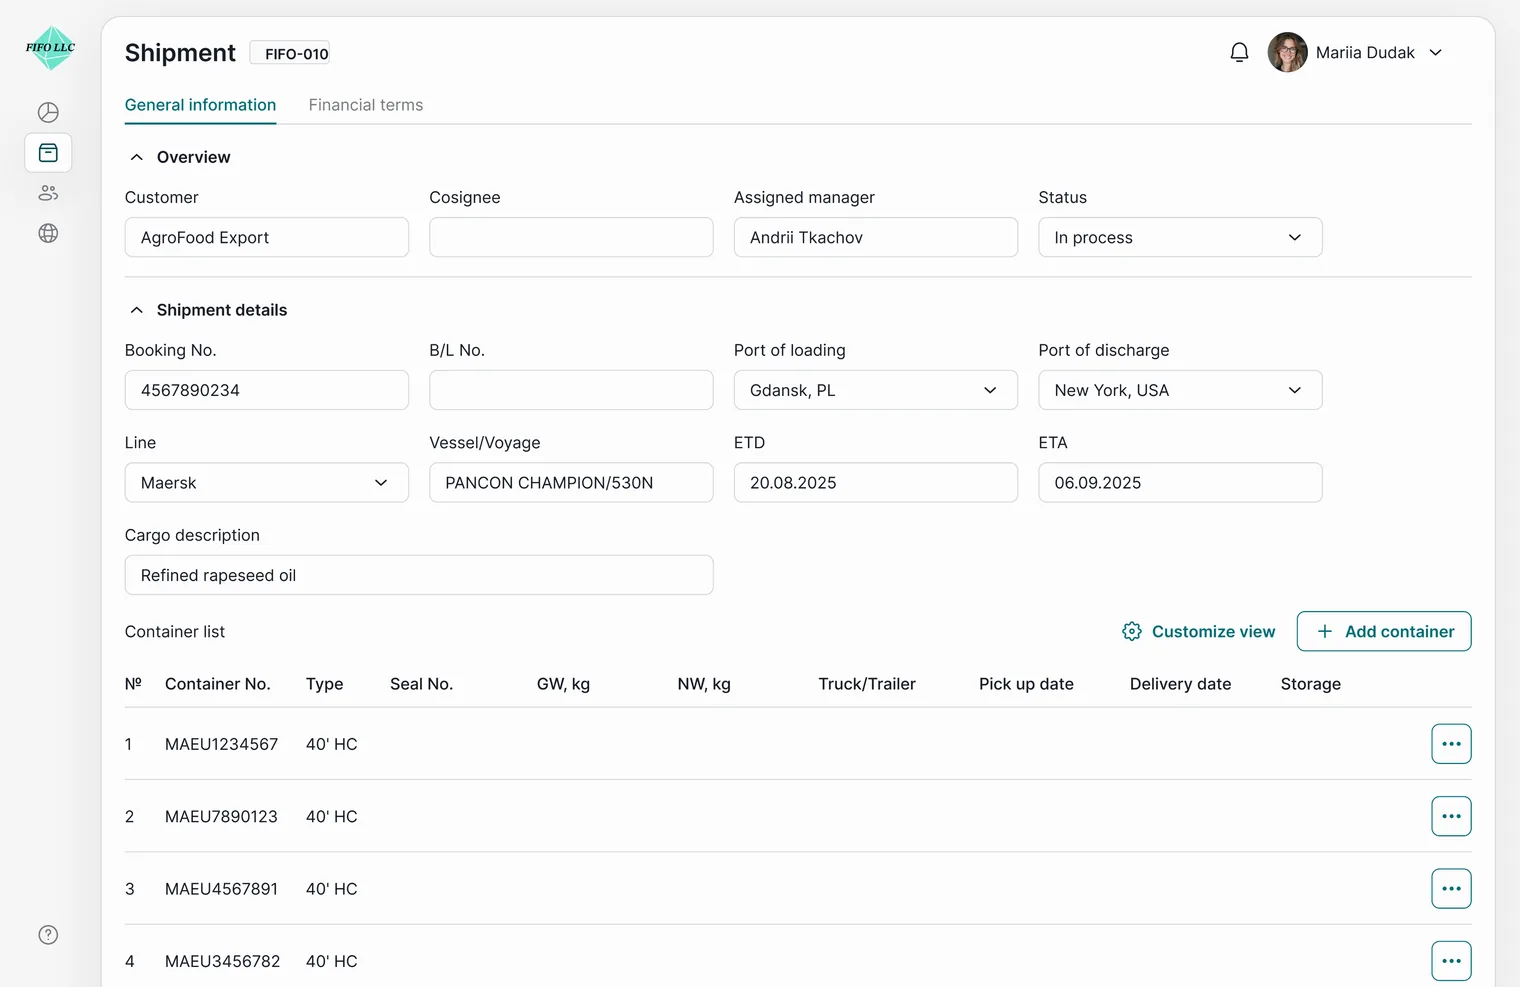
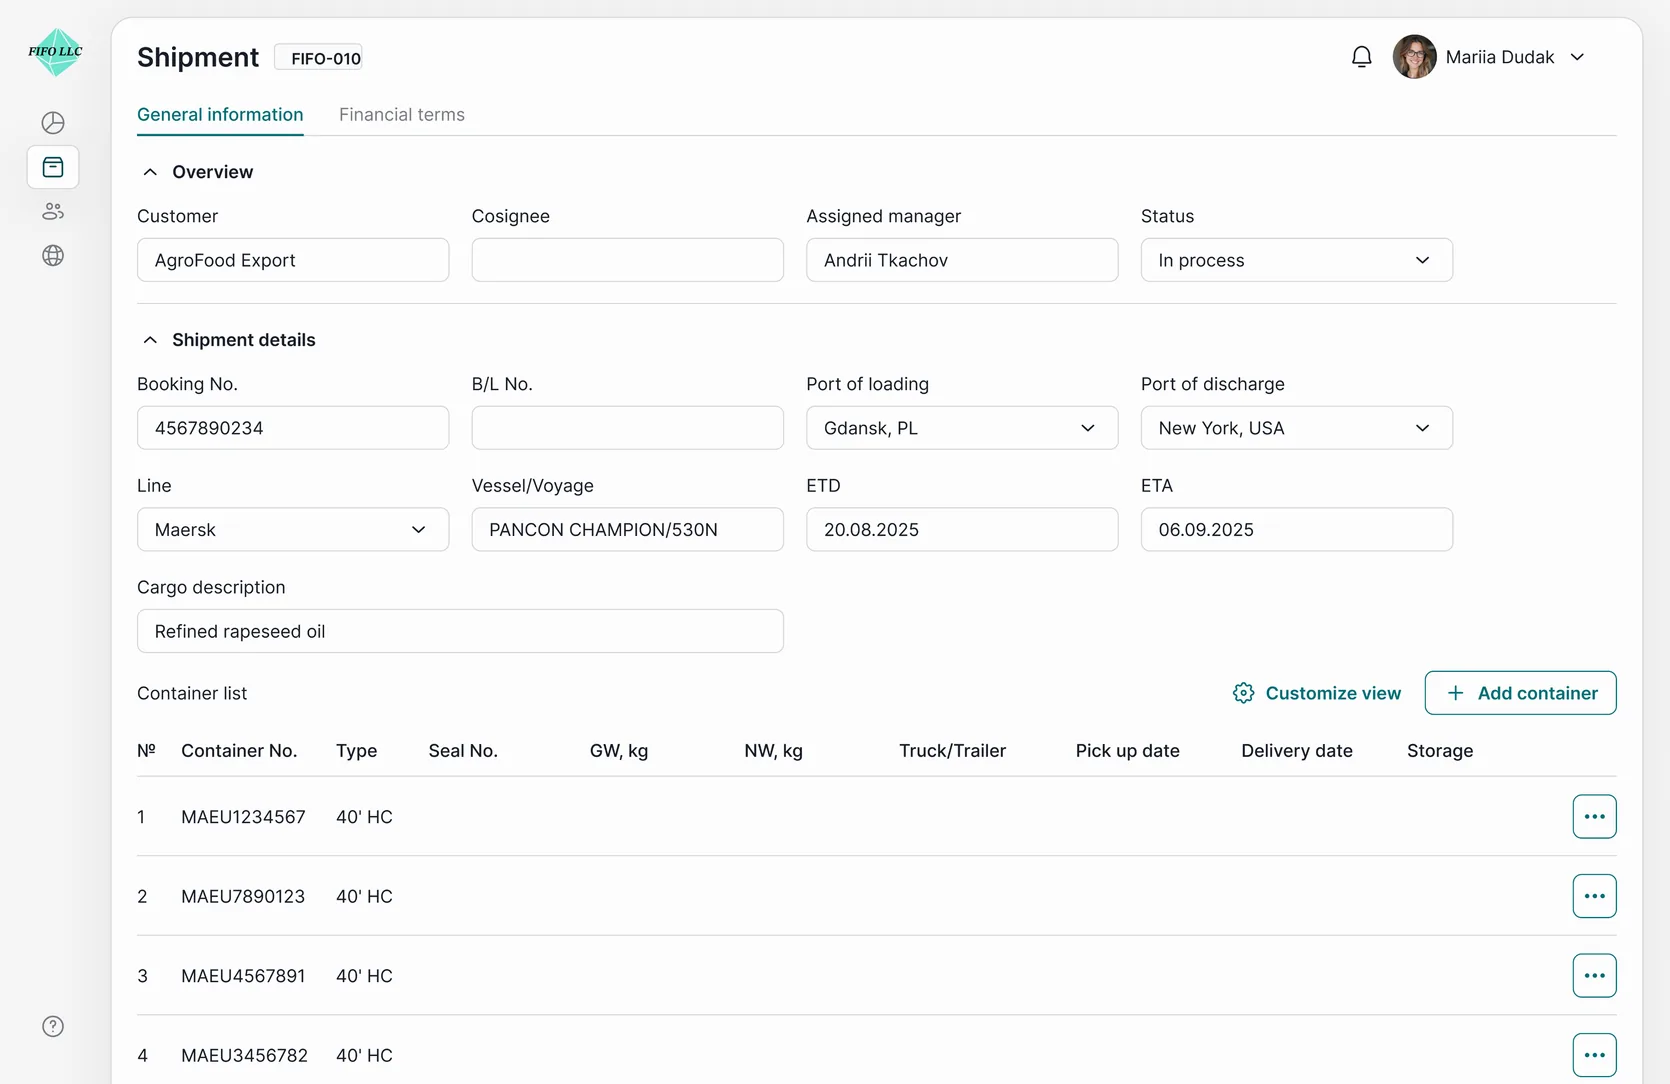
TMS case: sync Stops 01, 02, 04, 05, No dead ends and Carrier card with Figma
Stop 04 stage 960 with images 28 and 34 enlarged and repositioned, notes
+43; Stop 05 stage 960, dashboard frame 1101x715 centred (right edge on
the note); Stop 02 header-to-stage gap 80 (was 64); screenshot radii 24
for images 32, 35, 36, 37; Carrier portal card #fafafa like the others.
Images 28, 34, 35 and the Stop 04 General layer re-exported at their new
Figma sizes. Unused compact gap token and white card tone removed.

diff --git a/src/data/cases/tms.ts b/src/data/cases/tms.ts
@@ -183,12 +183,12 @@ export const tmsCase = {
        * centre in % of the temporary mobile stage; `row` is what the card adds to the window.
        */
       tools: [
-        { id: 'excel', label: 'Excel tracker', cx: 217.2, cy: 146.05, rotation: 8, tone: 'panel' as const, mobile: { cx: 27, cy: 7 }, row: { label: 'Shipments & status', value: 'Booking' } },
-        { id: 'email', label: 'Email threads', cx: 1170.18, cy: 104.41, rotation: -6, tone: 'panel' as const, mobile: { cx: 73, cy: 7 }, row: { label: 'Tasks & comments', value: '3 open' } },
-        { id: 'carrier', label: 'Carrier portal', cx: 188.73, cy: 546.45, rotation: -5, tone: 'white' as const, mobile: { cx: 22, cy: 87 }, row: { label: 'ETA & tracking', value: '26.08' } },
-        { id: 'crm', label: 'CRM', cx: 1171.72, cy: 541.66, rotation: 6, tone: 'panel' as const, mobile: { cx: 82, cy: 87 }, row: { label: 'Client: AgroFood Export' } },
-        { id: 'pdf', label: 'PDF documents', cx: 707.85, cy: 642.23, rotation: 3, tone: 'panel' as const, mobile: { cx: 52, cy: 95 }, row: { label: 'Documents & invoices', value: '4 files' } },
-      ] as { id: string; label: string; cx: number; cy: number; rotation: number; tone: 'panel' | 'white'; mobile: { cx: number; cy: number }; row: { label: string; value?: string } }[],
+        { id: 'excel', label: 'Excel tracker', cx: 217.2, cy: 146.05, rotation: 8, mobile: { cx: 27, cy: 7 }, row: { label: 'Shipments & status', value: 'Booking' } },
+        { id: 'email', label: 'Email threads', cx: 1170.18, cy: 104.41, rotation: -6, mobile: { cx: 73, cy: 7 }, row: { label: 'Tasks & comments', value: '3 open' } },
+        { id: 'carrier', label: 'Carrier portal', cx: 188.73, cy: 546.45, rotation: -5, mobile: { cx: 22, cy: 87 }, row: { label: 'ETA & tracking', value: '26.08' } },
+        { id: 'crm', label: 'CRM', cx: 1171.72, cy: 541.66, rotation: 6, mobile: { cx: 82, cy: 87 }, row: { label: 'Client: AgroFood Export' } },
+        { id: 'pdf', label: 'PDF documents', cx: 707.85, cy: 642.23, rotation: 3, mobile: { cx: 52, cy: 95 }, row: { label: 'Documents & invoices', value: '4 files' } },
+      ] as { id: string; label: string; cx: number; cy: number; rotation: number; mobile: { cx: number; cy: number }; row: { label: string; value?: string } }[],
     },
     /** 113:12867. Sources are linked in Figma. */
     stats: [
@@ -265,7 +265,7 @@ export const tmsCase = {
             src2x: stop01List2x,
             alt: 'Shipments list with a status for each shipment; the new shipment FIFO-010 is in Booking',
             box: { x: 760, y: 330, width: 600, height: 412.698 },
-            radius: 9.524,
+            radius: 24,
             stroke,
           },
         ],
@@ -352,13 +352,13 @@ export const tmsCase = {
       } satisfies SectionCopy,
       scene: { length: 1.6, label: 'The shipment page switches from General information to Financial terms, then an invoice built from the shipment opens over it.' } satisfies SceneData,
       stage: {
-        size: { width: 1432, height: 874 },
+        size: { width: 1432, height: 960 },
         shots: [
           {
             src1x: stop04Shipment1x,
             src2x: stop04Shipment2x,
             alt: 'Shipment page, Financial terms tab: customer, payer, payment status, rate and the expenses table',
-            box: { x: 80, y: 144, width: 760, height: 493.598 },
+            box: { x: 42.609, y: 201.169, width: 834.783, height: 542.167 },
             radius: 24,
             stroke,
           },
@@ -366,18 +366,18 @@ export const tmsCase = {
             src1x: stop04Invoice1x,
             src2x: stop04Invoice2x,
             alt: 'Invoice FIFO-002 generated from the shipment data, open over the shipment page with Save and export buttons',
-            box: { x: 736.004, y: 330, width: 615.886, height: 400 },
+            box: { x: 705.699, y: 405.471, width: 676.488, height: 439.359 },
             radius: 24,
             stroke,
           },
         ],
         notes: [
-          { text: 'Header stays put, tabs change below it', x: 80, y: 50, width: 355 },
-          { text: 'Invoice built from shipment data', x: 1050, y: 780, width: 302 },
+          { text: 'Header stays put, tabs change below it', x: 80, y: 93, width: 355 },
+          { text: 'Invoice built from shipment data', x: 1050, y: 823, width: 302 },
         ],
       } satisfies StageData,
     },
-    /** 120:13588. Figma's stage is 1416 wide; the image sits centred in the 1432 content width. */
+    /** 120:13588: the dashboard frame is centred in the stage; its right edge lines up with the note. */
     overview: {
       copy: {
         id: 'stop-05',
@@ -387,14 +387,14 @@ export const tmsCase = {
       } satisfies SectionCopy,
       scene: { length: 1.2, label: 'The dashboard charts draw in, the period menu switches from 3 months to 1 year, and the charts redraw.' } satisfies SceneData,
       stage: {
-        size: { width: 1432, height: 959 },
+        size: { width: 1432, height: 960 },
         shots: [
           {
             src1x: stop05Dashboard1x,
             src2x: stop05Dashboard2x,
             alt: 'Dashboard with the period menu open (1 month, 3 months, 9 months, 1 year) over the shipment status chart',
-            box: { x: 166, y: 100, width: 1100, height: 714.418 },
-            radius: 17.46,
+            box: { x: 165.426, y: 100.104, width: 1101.147, height: 715.163 },
+            radius: 24,
             stroke,
           },
         ],
@@ -420,7 +420,7 @@ export const tmsCase = {
           src2x: edgeEmpty2x,
           alt: 'Empty shipments list: “You don’t have any shipments yet” and when they will appear',
           box: { x: 80, y: 100, width: 560, height: 363.704 },
-          radius: 8.889,
+          radius: 24,
           stroke,
         },
         {
@@ -428,7 +428,7 @@ export const tmsCase = {
           src2x: edgeNoResults2x,
           alt: 'Search with no results: “Oops! We couldn’t find any results” and a Clear all filters button',
           box: { x: 320, y: 400, width: 560, height: 363.704 },
-          radius: 8.889,
+          radius: 24,
           stroke,
         },
         {

diff --git a/src/cases/tms/StopScenes.tsx b/src/cases/tms/StopScenes.tsx
@@ -46,7 +46,6 @@ function PinnedStop({
   size,
   notes,
   overlay,
-  compact,
   children,
 }: {
   copy: SectionCopy
@@ -55,7 +54,6 @@ function PinnedStop({
   size: Size
   notes?: MarginNoteData[]
   overlay?: ReactNode
-  compact?: boolean
   children: ReactNode
 }) {
   const trackRef = useRef<HTMLDivElement>(null)
@@ -65,7 +63,7 @@ function PinnedStop({
   return (
     <section
       id={copy.id}
-      className={`case-section case-section--scene${compact ? ' case-section--compact' : ''}`}
+      className="case-section case-section--scene"
       aria-labelledby={titleId}
       style={{ '--pin-w': size.width, '--pin-h': size.height, '--pin-length': scene.length } as CSSProperties}
     >
@@ -193,7 +191,6 @@ export function Stop02Scene() {
       spec={stop02}
       size={stage.size}
       notes={stage.notes}
-      compact
       overlay={
         <div className="stage__overlay" style={placeIn(flow.box, stage.size)}>
           <HandoffFlow steps={flow.steps} />

diff --git a/src/styles/tokens.css b/src/styles/tokens.css
@@ -132,7 +132,6 @@
   --space-case-hero: clamp(100px, 23.148vw, 350px); /* hero title block's top padding (113:13026), below the 80 gap */
   --space-case-card: clamp(20px, 2.116vw, 32px); /* stat card padding, insight row padding */
   --gap-case-header: clamp(48px, 5.291vw, 80px); /* section header → stage */
-  --gap-case-header-s: clamp(40px, 4.233vw, 64px); /* stop 02 */
   --gap-case-media: clamp(64px, 7.937vw, 120px); /* header → photo row, footer bottom */
   --gap-case-col: clamp(16px, 2.646vw, 40px); /* insight columns */
   --gap-case-card: clamp(16px, 1.587vw, 24px); /* meta columns, stat cards */

diff --git a/src/cases/tms/TmsCase.tsx b/src/cases/tms/TmsCase.tsx
@@ -97,7 +97,6 @@ function ProblemScene({ trackRef }: { trackRef: RefObject<HTMLDivElement | null>
                 key={tool.id}
                 className="tool-card"
                 data-card={tool.id}
-                data-tone={tool.tone}
                 data-rotation={tool.rotation}
                 style={
                   {

diff --git a/src/cases/tms/TmsCase.css b/src/cases/tms/TmsCase.css
@@ -272,10 +272,6 @@
   white-space: nowrap;
 }
 
-.tool-card[data-tone='white'] {
-  background: var(--color-white);
-}
-
 .problem-stage .stage__canvas[data-scene] .tool-card {
   rotate: none;
 }

diff --git a/src/cases/tms/StopScenes.css b/src/cases/tms/StopScenes.css
@@ -13,10 +13,6 @@
   container-type: inline-size;
 }
 
-.case-section--scene.case-section--compact {
-  --pin-gap: var(--gap-case-header-s);
-}
-
 .scene-track {
   margin-top: var(--pin-gap);
 }
